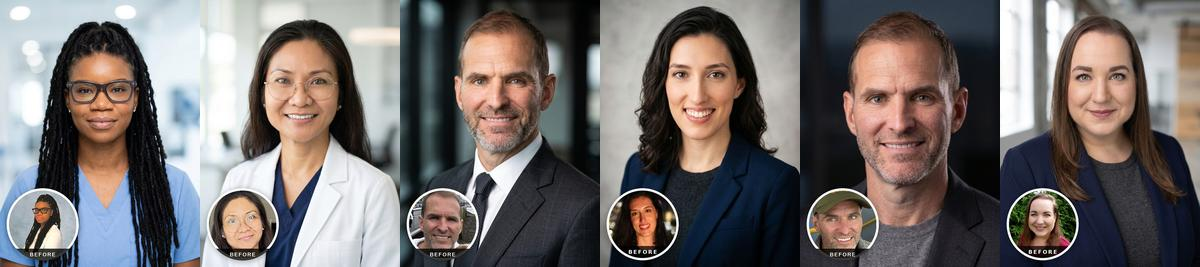
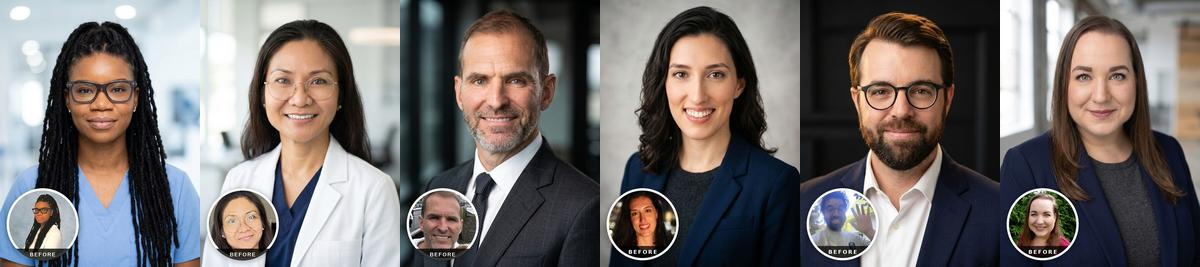
Gallery teaser: swap duplicate man + strengthen caption contrast

Changed region(s): [[0.6475, 0.0, 0.8325, 1.0]]

diff --git a/src/App.tsx b/src/App.tsx
@@ -2440,18 +2440,24 @@ const LandingV2 = ({
               height: "auto",
             }}
           />
-          {/* Dark gradient overlay — strongest at the bottom so the caption
-              has guaranteed contrast against any photo it sits over. */}
+          {/* Dark overlay — two-stop gradient so the photos stay readable
+              at the top but the bottom (where the caption sits) is heavily
+              darkened. Strengthened 2026-06-02 after Kristi noted the
+              original gradient wasn't strong enough to make the white
+              text pop against lighter photos. */}
           <div
             style={{
               position: "absolute",
               inset: 0,
               background:
-                "linear-gradient(180deg, rgba(0,0,0,0.05) 0%, rgba(0,0,0,0.55) 100%)",
+                "linear-gradient(180deg, rgba(0,0,0,0.1) 0%, rgba(0,0,0,0.2) 45%, rgba(0,0,0,0.78) 100%)",
               pointerEvents: "none",
             }}
           />
-          {/* Caption — serif headline + gold arrow, dropped shadow for legibility. */}
+          {/* Caption — serif headline + gold arrow. Layered text shadow
+              (a tight halo + a wider drop) gives a "ringed" black outline
+              effect without needing a separate -webkit-text-stroke that
+              renders inconsistently across browsers. */}
           <div
             style={{
               position: "absolute",
@@ -2471,13 +2477,23 @@ const LandingV2 = ({
                 fontFamily: SERIF_STACK,
                 fontSize: isMobile ? 18 : 22,
                 color: BRAND.white,
-                textShadow: "0 2px 8px rgba(0, 0, 0, 0.7)",
+                textShadow:
+                  "0 0 6px rgba(0,0,0,0.9), 0 2px 4px rgba(0,0,0,0.85), 0 4px 16px rgba(0,0,0,0.7)",
                 letterSpacing: 0.3,
                 lineHeight: 1.2,
+                fontWeight: 500,
               }}
             >
               View the transformation gallery
-              <span style={{ color: BRAND.gold }}>→</span>
+              <span
+                style={{
+                  color: BRAND.gold,
+                  textShadow:
+                    "0 0 6px rgba(0,0,0,0.9), 0 2px 4px rgba(0,0,0,0.85)",
+                }}
+              >
+                →
+              </span>
             </span>
           </div>
         </button>